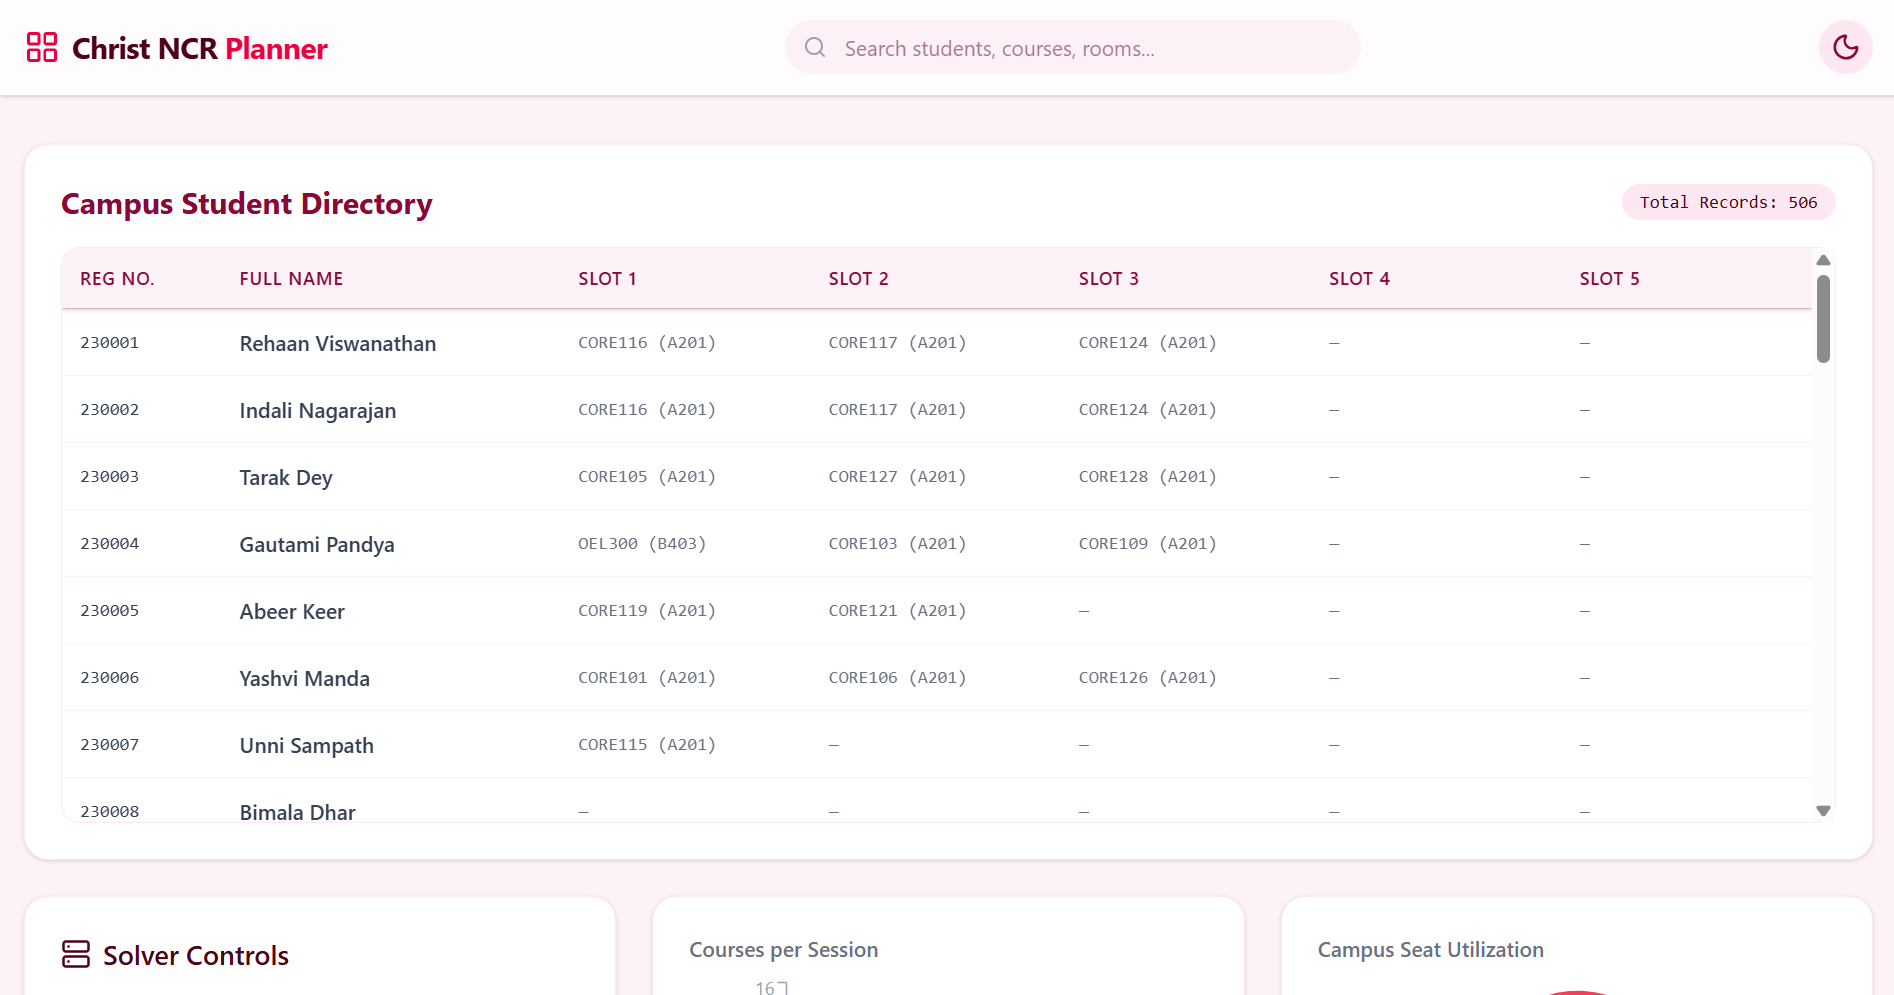
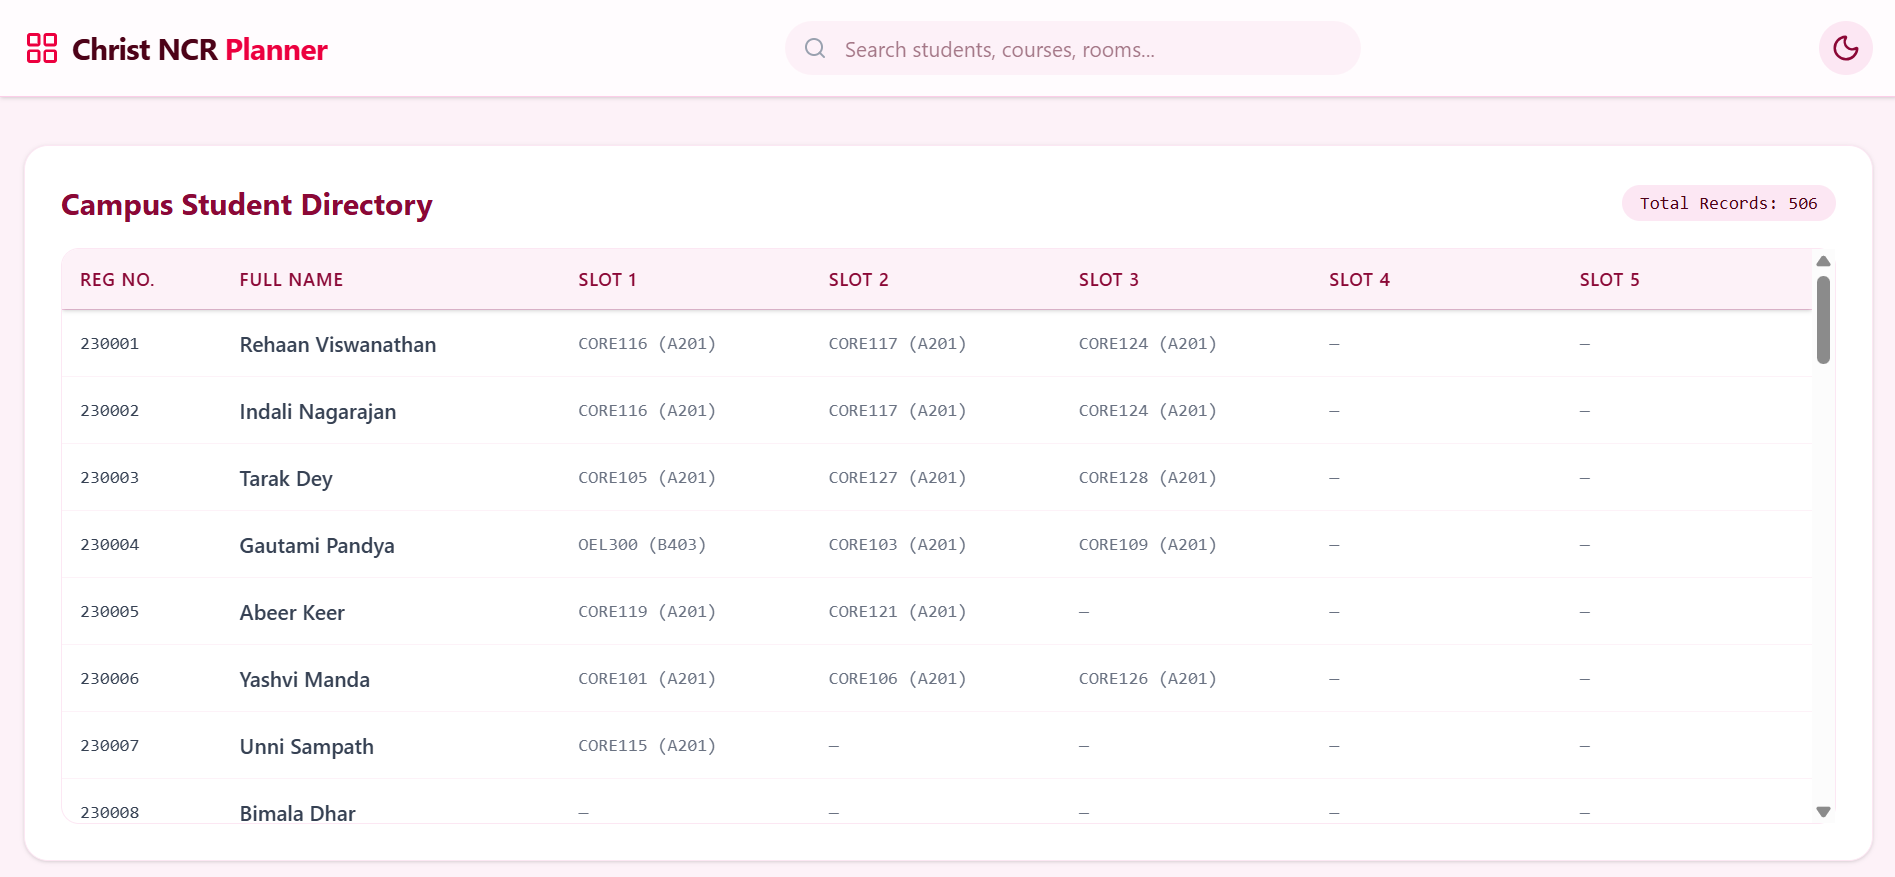
README.md

diff --git a/README.md b/README.md
@@ -16,13 +16,13 @@
 *   **🪑 Smart 2D Seating Grid:** Dynamically generates visual seating arrangements conforming to a 3-4-3 classroom layout. Enforces a strict 1-seat gap rule and mathematically guarantees no two adjacent students are writing the same exam.
 *   **🎨 Dual Theming:** Beautiful UI seamlessly toggling between "Sakura Light" and "Sleek Dark" modes using Tailwind CSS v4.
 
-![2D Seating Grid Visualization](path/to/grid.png)
+![2D Seating Grid Visualization](images/grid.png)
 
 *   **📊 Interactive Analytics Dashboard:** Real-time visual widgets built with Recharts, displaying campus seat utilization, session distributions, and solver latency metrics.
 *   **🚨 Failure Engine Terminal:** A real-time diagnostic terminal integrated into the UI. If constraints cannot be met (e.g., Chromatic Overload or Capacity Shortage), the engine outputs exact, readable explanations rather than failing silently.
 *   **🔍 Global Unified Search:** Lightning-fast, fuzzy search engine to instantly locate students, courses, or rooms across the entire database.
 
-![Dynamic Themes](path/to/terminal.png)
+![Dynamic Themes](images/theme.png)
 
 ---
 
